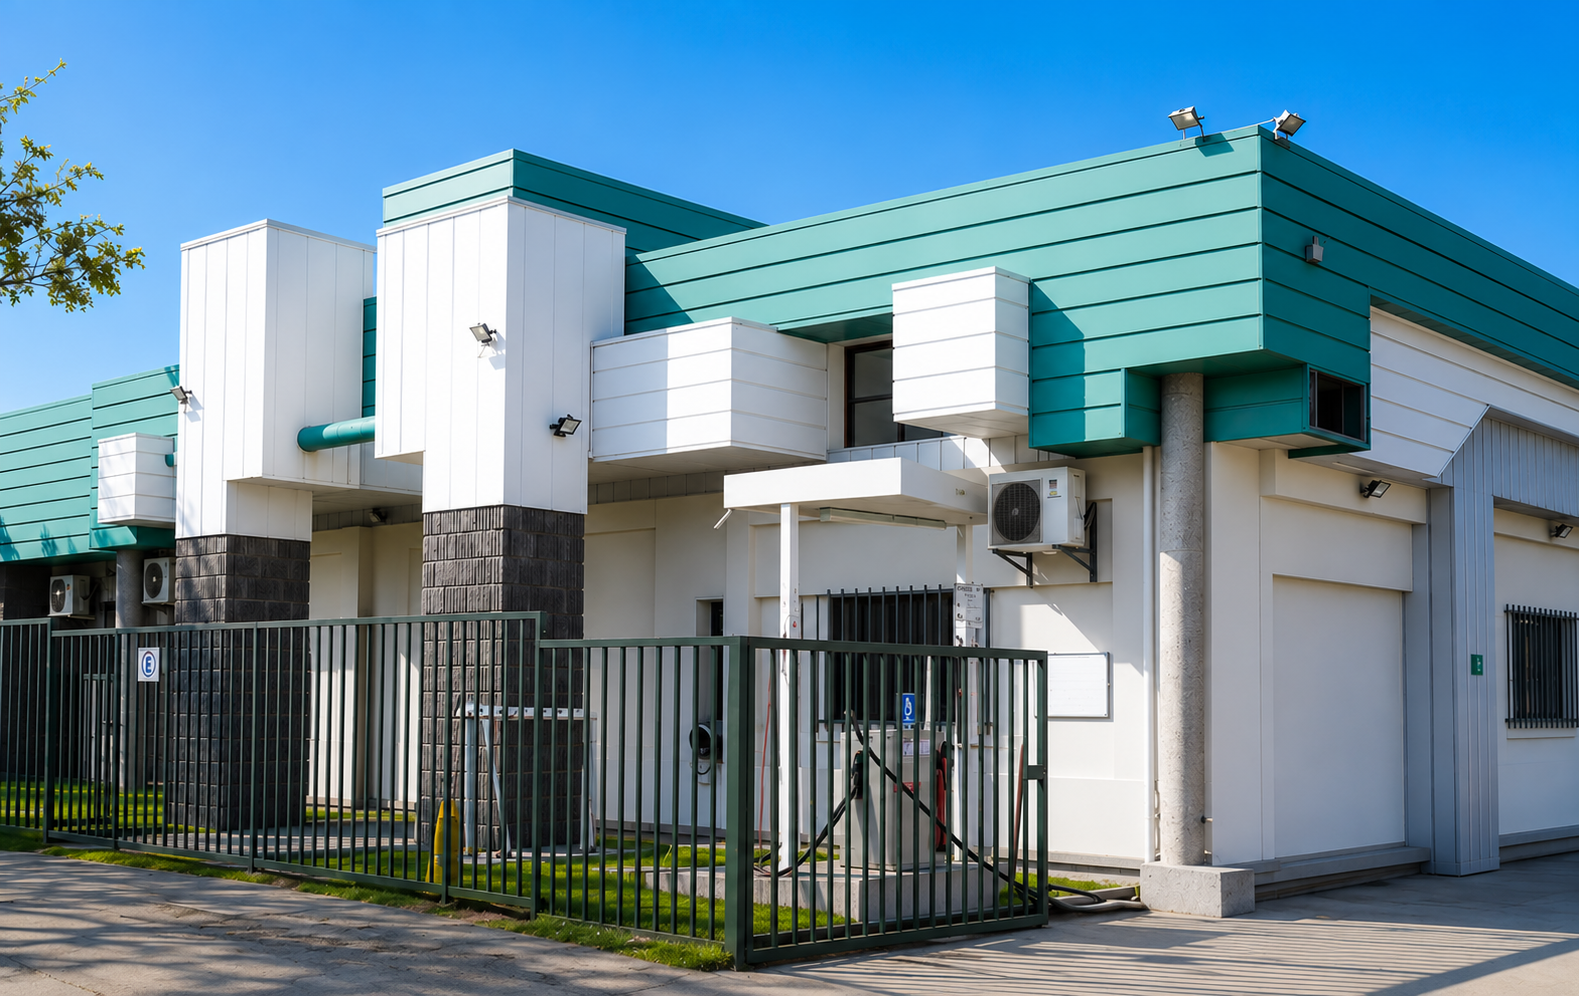
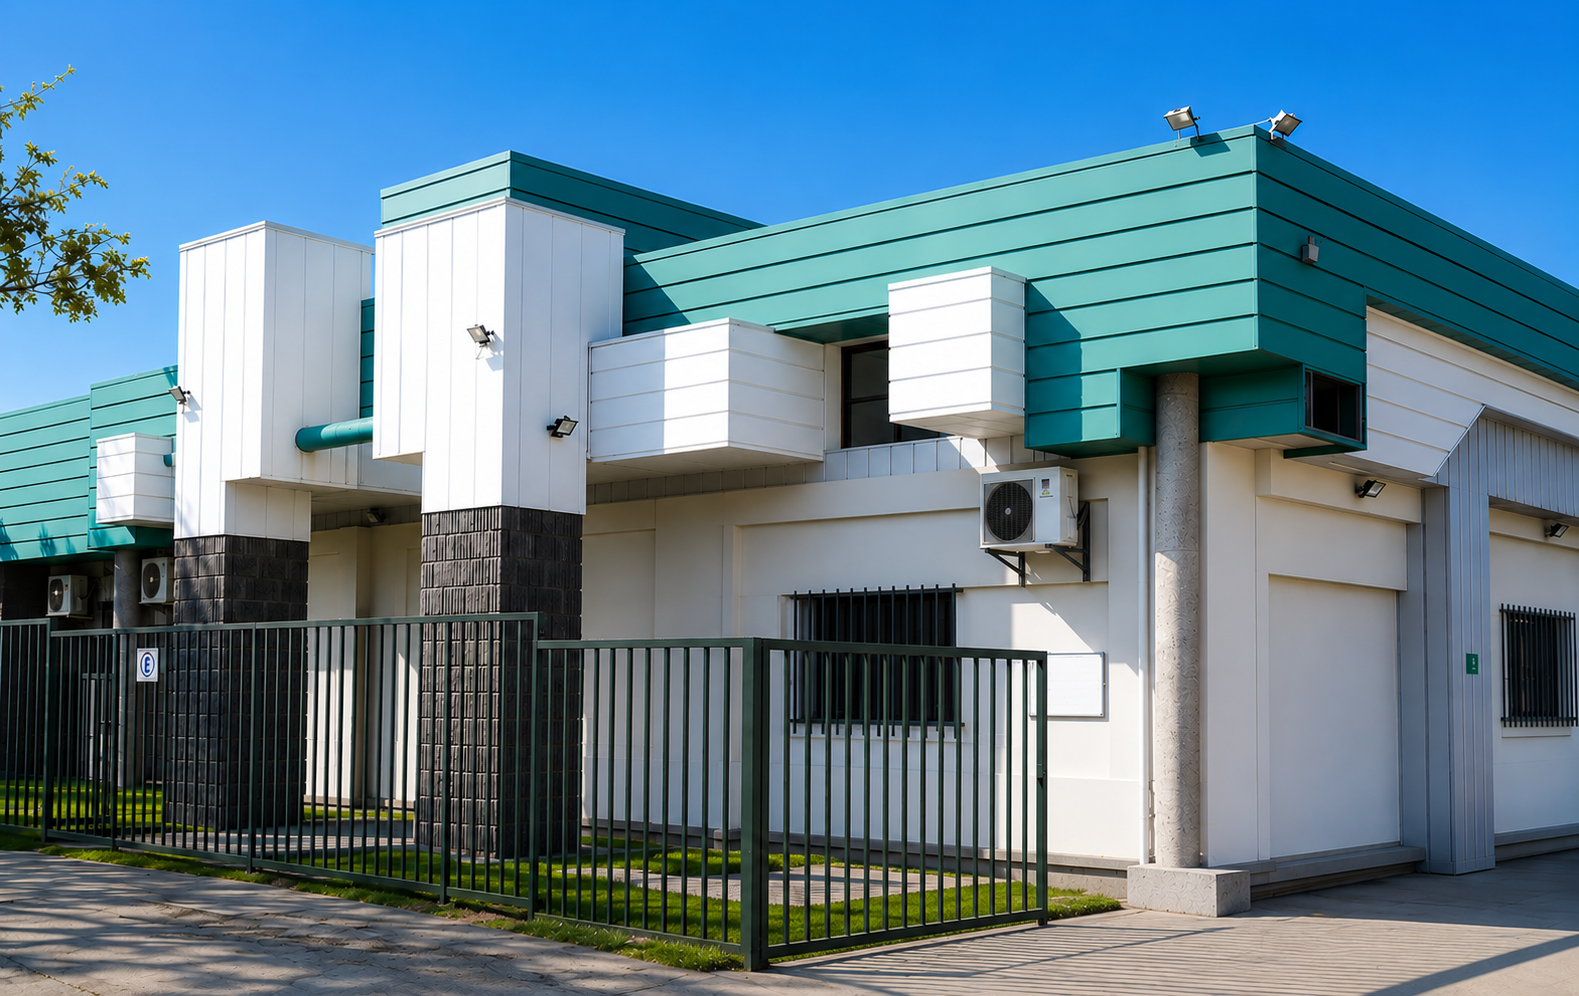
cambiando foto y horas

diff --git a/trabaja-con-nosotros.html b/trabaja-con-nosotros.html
@@ -133,11 +133,11 @@
               <div class="feature-highlights">
                 <div class="highlight-item">
                   <i class="bi bi-check-circle-fill"></i>
-                  <span>Cumplimos con las 40 horas semanales</span>
+                  <span>Cumplimos con las 42 horas semanales</span>
                 </div>
                 <div class="highlight-item">
                   <i class="bi bi-check-circle-fill"></i>
-                  <span>El viernes salimos a las 16:30</span>
+                  <span>El miércoles, jueves y viernes salimos a las 16:30</span>
                 </div>
                 <div class="highlight-item">
                   <i class="bi bi-check-circle-fill"></i>
